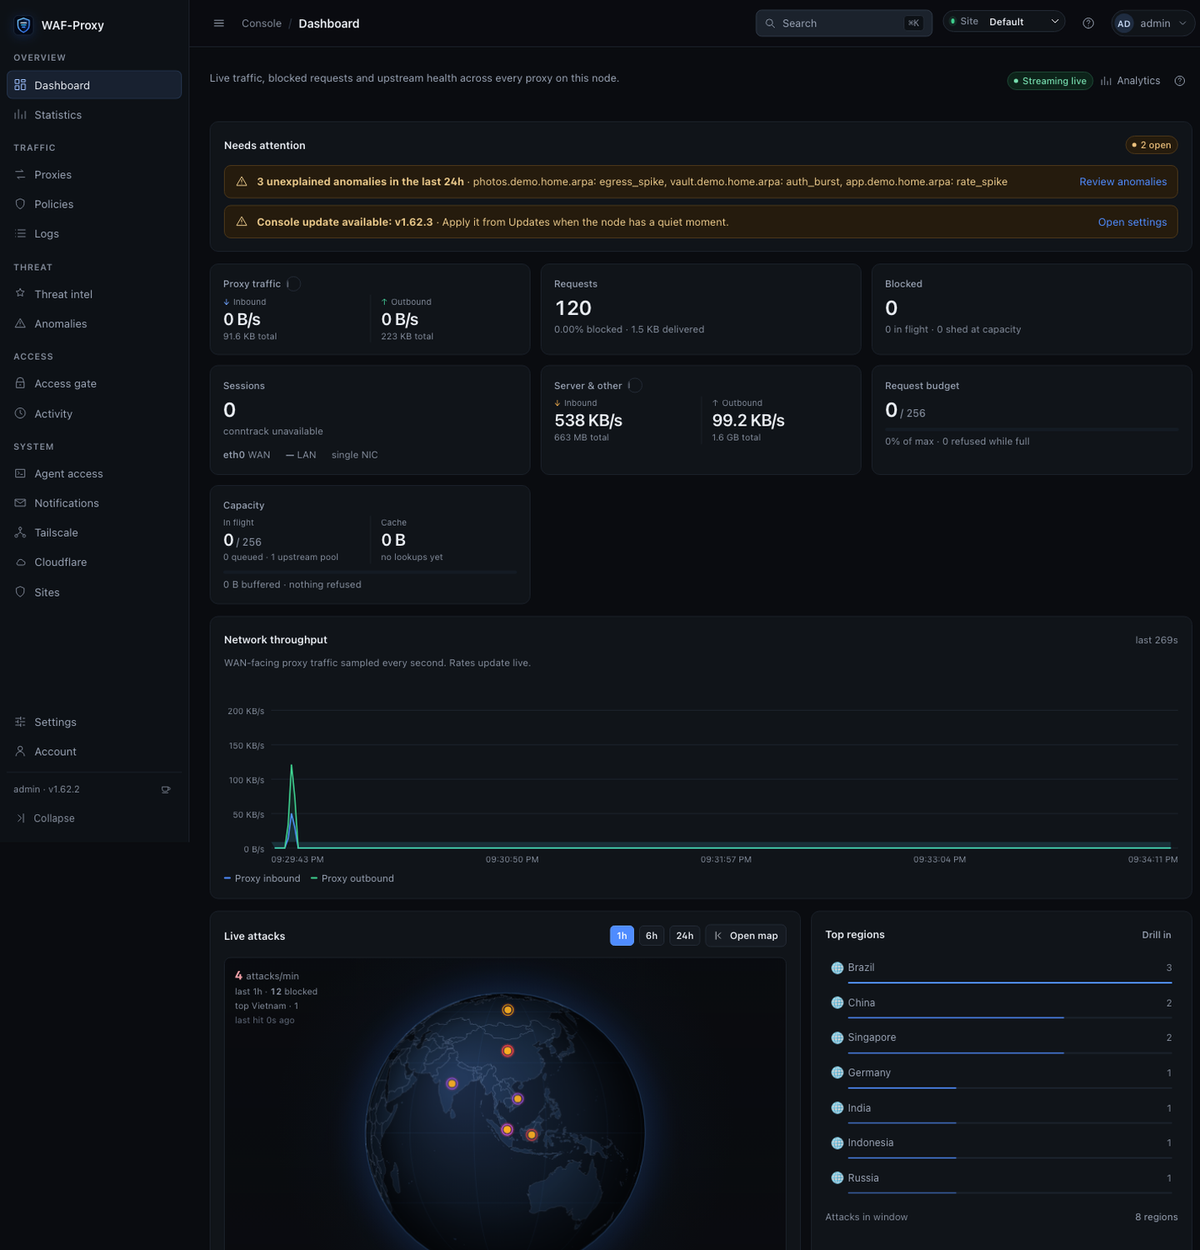
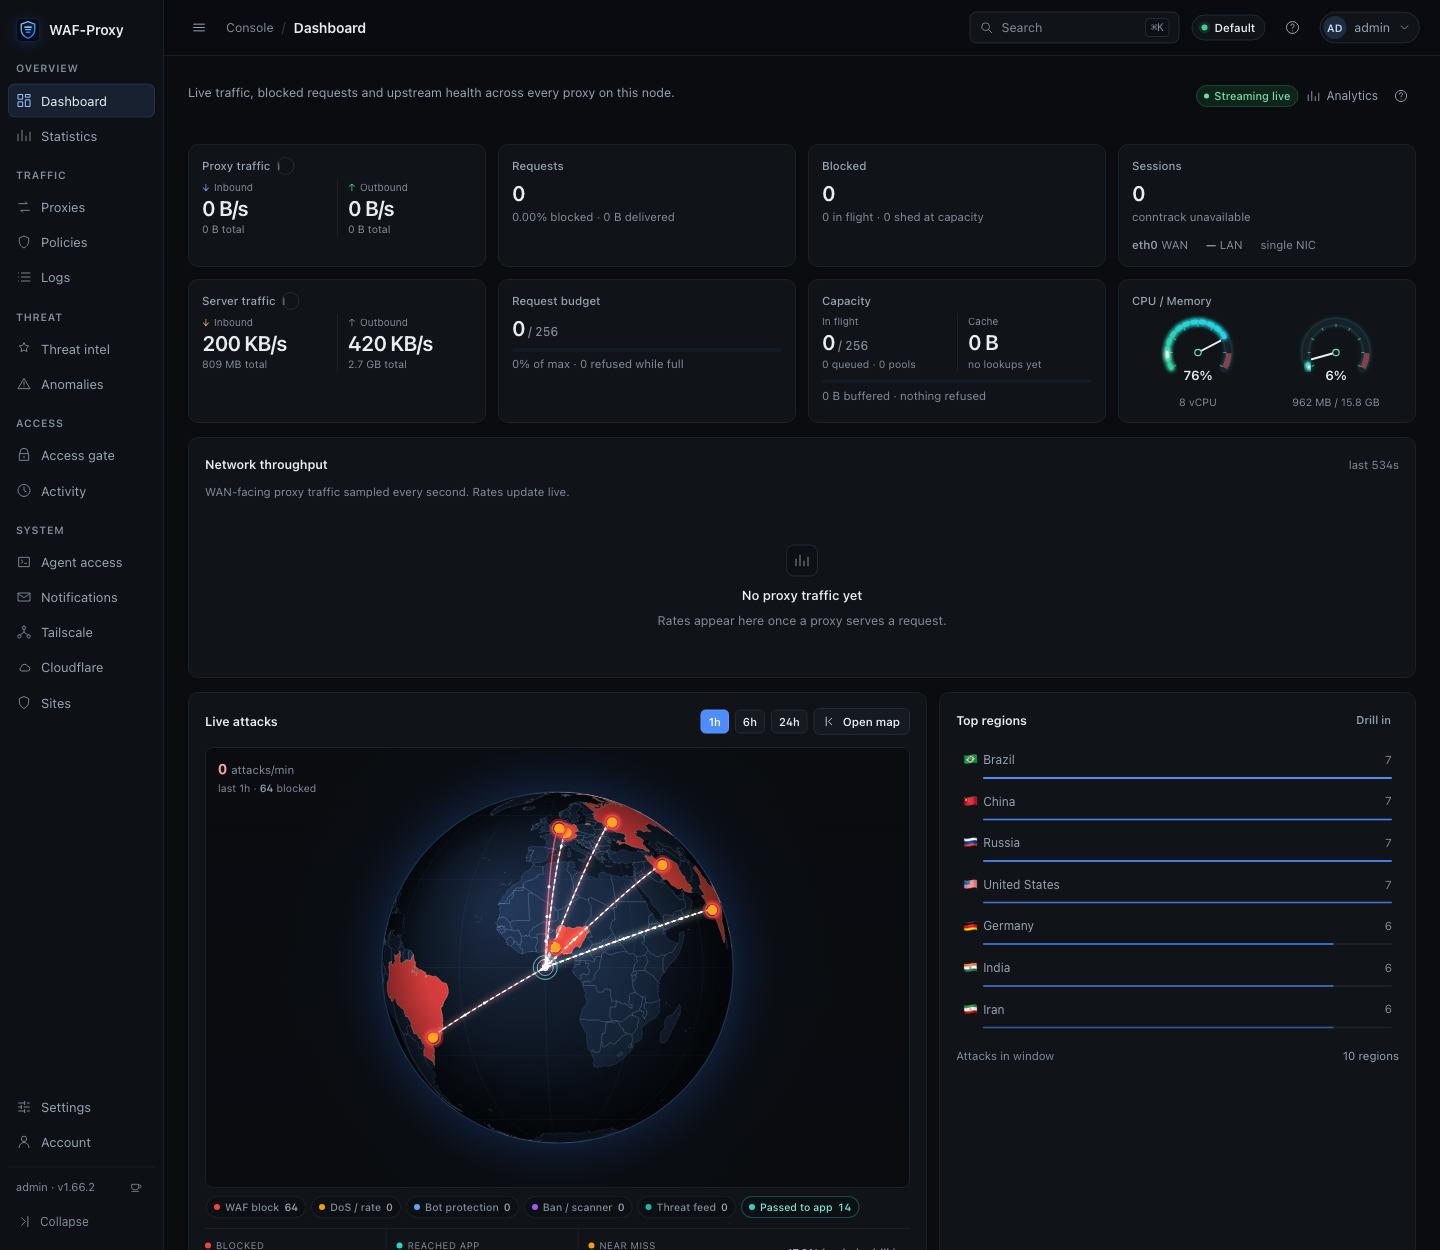
Show the current dashboard in the README
The hero and gallery captures still showed the 1.62.2 dashboard, including
the empty "Needs attention" card and the three-up strip with no dials. Both
were retaken against a 1.66.2 console with demo data, and the alt text and
gallery index now describe the page as it renders today.

🤖 Generated with Codebuff

diff --git a/internal/version/version.go b/internal/version/version.go
@@ -4,7 +4,7 @@ package version
 // Values are overridden at build time with -ldflags.
 var (
 	// Version is the semantic version of this build, e.g. "1.0.0".
-	Version = "1.66.2"
+	Version = "1.66.3"
 	// Commit is the git revision the binary was built from.
 	Commit = "dev"
 	// BuildDate is the RFC3339 build timestamp.

diff --git a/docs/screenshots/README.md b/docs/screenshots/README.md
@@ -7,14 +7,15 @@ page looks like before you open it.
 
 They were captured from the **v1.62.2** console (the version in the About card of each
 capture), with two tenant sites, nine proxies, certificates, bans, threat feeds and a week of
-traffic shaped by a daily curve. `agent.png` is the exception: it was retaken on a **1.64.0**
+traffic shaped by a daily curve. Two are the exception: `agent.png` was retaken on a **1.64.0**
 build, the first version whose AI Agent Access page renders the gateway's tool catalog from
-`GET /api/mcp`. Everybody sees the full gallery in the
+`GET /api/mcp`, and `dashboard.png` on a **1.66.2** build, which added the host CPU and memory
+dials and the three/four-up strip. Everybody sees the full gallery in the
 [README console tour](../../README.md#console-tour); the guides below reuse the same files.
 
 | Image | Page | Also used in |
 | --- | --- | --- |
-| [dashboard.png](dashboard.png) | Dashboard: needs-attention queue, live rates, attack globe, per-site traffic | [Operations](../OPERATIONS.md), [Docker install](../install/01-docker.md) |
+| [dashboard.png](dashboard.png) | Dashboard: live rates, the host's CPU and memory dials, the attack globe with reached endpoints (1.66.2) | [Operations](../OPERATIONS.md), [Docker install](../install/01-docker.md), [README](../../README.md#console-tour) hero |
 | [statistics.png](statistics.png) | Statistics: outcomes, per-site series, countries, uptime | [Configuration reference](../CONFIGURATION.md) |
 | [proxies.png](proxies.png) | Proxies: hostnames, upstream health, per-site settings | [First site](../install/03-first-site.md), [Configuration reference](../CONFIGURATION.md) |
 | [policies.png](policies.png) | Policies: bans, global profile, WAF and protection profiles | [Configuration reference](../CONFIGURATION.md) |

diff --git a/CHANGELOG.md b/CHANGELOG.md
@@ -12,6 +12,17 @@ Format follows [Keep a Changelog](https://keepachangelog.com/en/1.1.0/); version
 - Every push to `main` has a matching section here; a release is published with an annotated
   `vX.Y.Z` tag on the commit that carries its section.
 
+## [1.66.3] — 2026-11-24
+
+### Changed
+
+- **The README shows the dashboard as it is now.** The hero capture at the top of the README and the
+  `dashboard.png` gallery image were both retaken against a 1.66.2 console with demo data, so they
+  carry the CPU and memory dials, the four-up strip and the reached-endpoint counters instead of the
+  1.62.2 layout with an empty "Needs attention" card. The alt text in `docs/OPERATIONS.md`, the
+  gallery index and the README caption follow the new page: the queue is described as conditional
+  rather than as something every dashboard shows.
+
 ## [1.66.2] — 2026-11-24
 
 ### Added

diff --git a/README.md b/README.md
@@ -24,9 +24,9 @@ Linux, amd64 and arm64.
 
 </div>
 
-<img src="docs/assets/hero.png" width="100%" alt="The WAF-Proxy console: live throughput, the attack map, and the stage and rule behind every blocked request" />
+<img src="docs/assets/hero.png" width="100%" alt="The WAF-Proxy console: live throughput, host CPU and memory dials, the attack map, and the stage and rule behind every blocked request" />
 
-<p align="center"><em>One screen for the whole edge: throughput, the attack map, and the stage and rule behind every blocked request.</em></p>
+<p align="center"><em>One screen for the whole edge: throughput, the host's own CPU and memory, the attack map, and the stage and rule behind every blocked request.</em></p>
 
 ## Quickstart
 

diff --git a/docs/OPERATIONS.md b/docs/OPERATIONS.md
@@ -2,7 +2,7 @@
 
 ## Daily checks
 
-![Dashboard: needs-attention queue, live rates and the attack globe](screenshots/dashboard.png)
+![Dashboard: live rates, the host's CPU and memory dials and the attack globe](screenshots/dashboard.png)
 
 *The dashboard of the demo install these pages were checked against; its sites, bans and events
 are sample data.*
